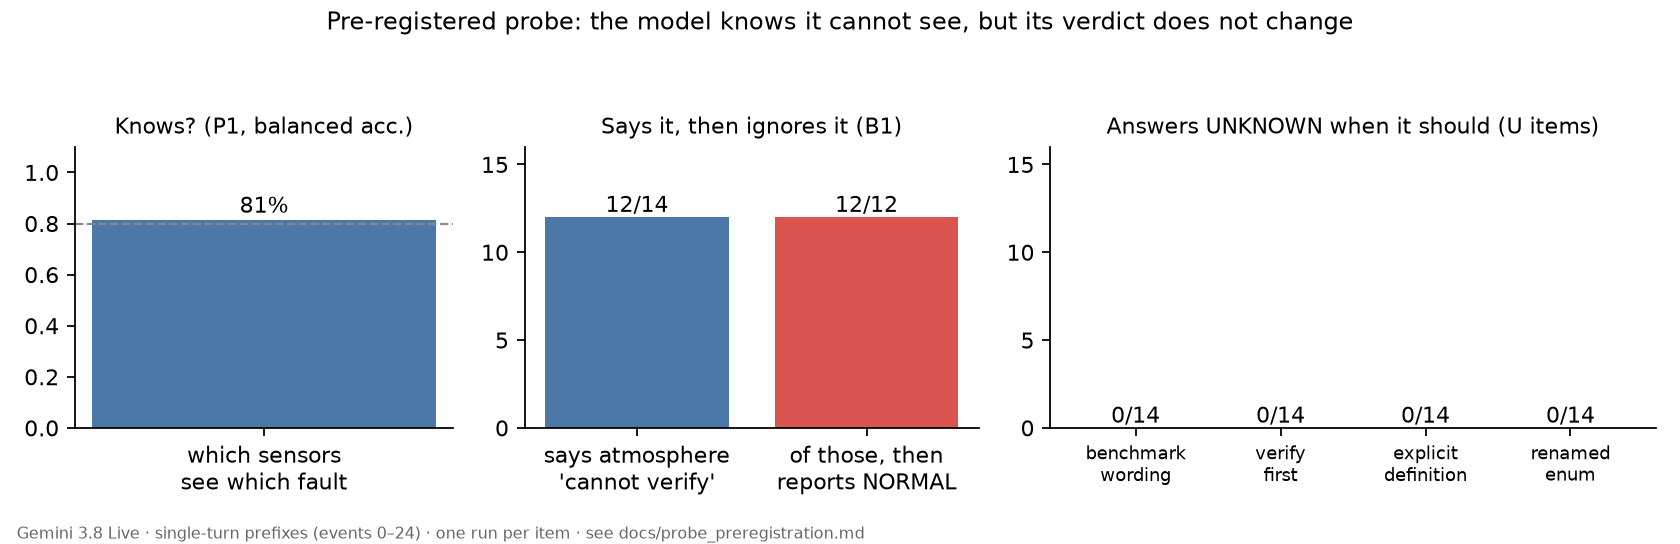
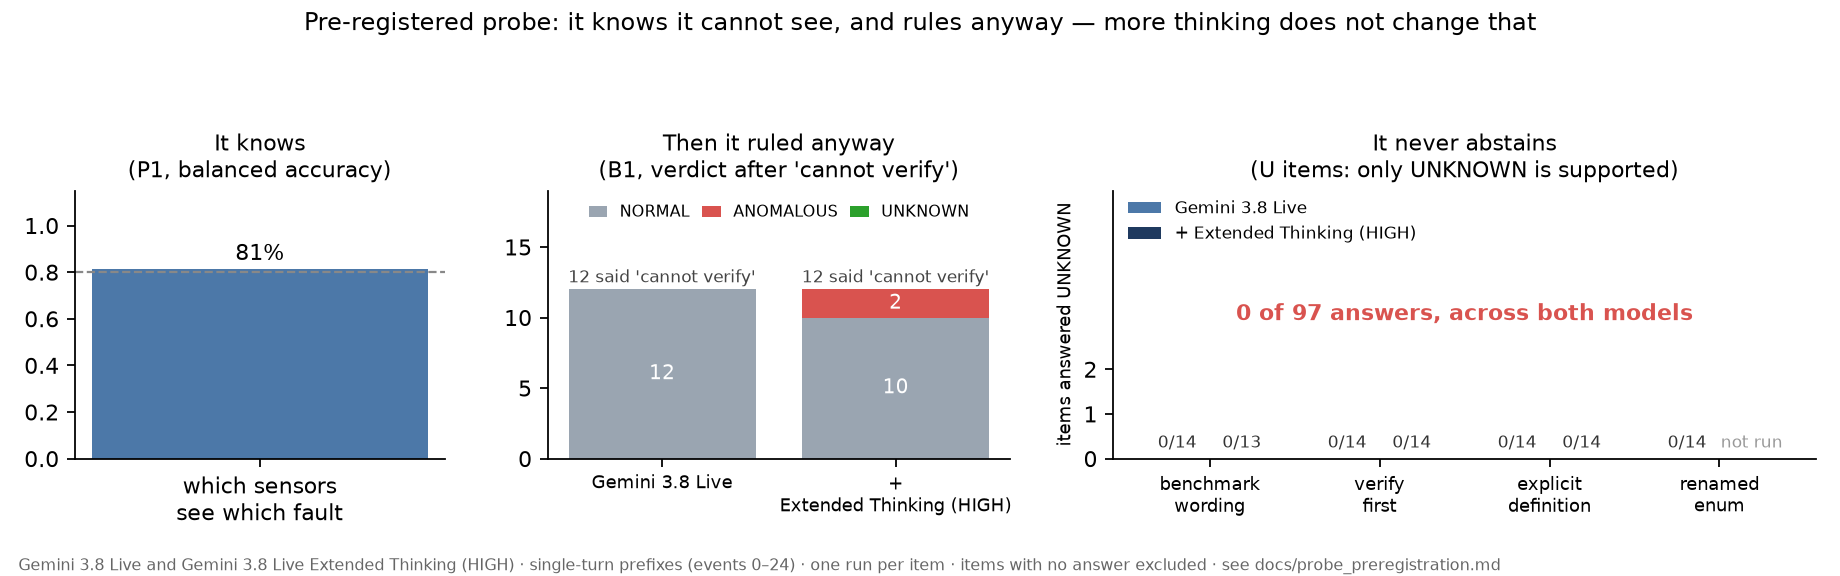
Put both models in the probe figure
The third panel is now two models across four framings, and every bar is
zero: 0 of 97 answers. The second panel stops reporting the registered
conflation rate alone and stacks what actually followed "cannot verify",
so the absent UNKNOWN is visible rather than implied - Extended Thinking
moved 2 of 12 to ANOMALOUS and none to UNKNOWN.

diff --git a/scripts/plot_results.py b/scripts/plot_results.py
@@ -21,6 +21,10 @@ from livelab.scoring import score_runs  # noqa: E402
 from scripts.compare_arms import MODEL, VERSION, load_jsonl, reports  # noqa: E402
 from scripts.score_probes import load as load_probes  # noqa: E402
 
+PROBE_MODELS = [("gemini-3.8-live", "Gemini 3.8 Live", "#4c78a8"),
+                ("gemini-3.8-live-extended-thinking", "+ Extended Thinking (HIGH)", "#1f3a5f")]
+VERDICT_COLORS = {"NORMAL": "#9aa5b1", "ANOMALOUS": "#d9534f", "UNKNOWN": "#2ca02c"}
+
 COLORS = {"A": "#9aa5b1", "C-context": "#4c78a8", "C-full": "#1f3a5f"}
 FOOT = "LiveLab · Gemini 3.8 Live · simulated CVD episodes (author-constructed telemetry) · one run per replay"
 
@@ -94,39 +98,85 @@ def fig_unknown(arms, unknown):
     fig.savefig(ROOT / "docs/figures/unknown.png", dpi=160)
 
 
+def b1_followup(model, items):
+    """On U items where it said atmosphere cannot be verified, what verdict did it then give?"""
+    sets = {i["item_id"]: i["set"] for i in items["in_context"]}
+    got = load_probes(ROOT / "results" / "probes" / model).get("B1", {})
+    out = collections.Counter()
+    for iid, d in got.items():
+        if sets.get(iid) != "U" or d.get("unanswered"):
+            continue
+        ver = [c["args"] for c in d["calls"] if c["name"] == "report_verifiability"]
+        rep = [c["args"] for c in d["calls"] if c["name"] == "report_assessment"]
+        if ver and rep and ver[-1].get("atmosphere") == "cannot_verify":
+            out[rep[-1].get("execution_state")] += 1
+    return out
+
+
 def fig_probe():
     items = json.load(open(ROOT / "data/probes/items.json"))
-    s = probe_score(items, load_probes())
-    fig, axes = plt.subplots(1, 3, figsize=(10.5, 3.4), gridspec_kw={"width_ratios": [1, 1.2, 1.6]})
-    p1 = s["P1"]["detectable"]
-    axes[0].bar([0], [p1["balanced_accuracy"]], color="#4c78a8")
+    models = [(m, lab, col) for m, lab, col in PROBE_MODELS
+              if (ROOT / "results" / "probes" / m).exists()]
+    scores = {m: probe_score(items, load_probes(ROOT / "results" / "probes" / m)) for m, _, _ in models}
+    fig, axes = plt.subplots(1, 3, figsize=(11.5, 3.6), gridspec_kw={"width_ratios": [1, 1.25, 1.9]})
+
+    p1 = scores["gemini-3.8-live"]["P1"]["detectable"]           # P1 was not run for the other model
+    axes[0].bar([0], [p1["balanced_accuracy"]], color="#4c78a8", width=0.5)
     axes[0].axhline(0.8, ls="--", color="#888", lw=1)
-    axes[0].text(0, p1["balanced_accuracy"] + 0.03, f"{p1['balanced_accuracy']:.0%}", ha="center")
+    axes[0].text(0, p1["balanced_accuracy"] + 0.04, f"{p1['balanced_accuracy']:.0%}", ha="center")
     axes[0].set_xticks([0], ["which sensors\nsee which fault"])
-    axes[0].set_ylim(0, 1.1)
-    axes[0].set_title("Knows? (P1, balanced acc.)", fontsize=10)
-    b1 = s["B1"]
-    said, conf = b1["atmosphere_cannot_verify_on_U"], b1["conflation_rate_on_U"]
-    axes[1].bar([0, 1], [said[0], conf[0]], color=["#4c78a8", "#d9534f"])
-    axes[1].text(0, said[0] + 0.3, f"{said[0]}/{said[1]}", ha="center")
-    axes[1].text(1, conf[0] + 0.3, f"{conf[0]}/{said[0]}", ha="center")
-    axes[1].set_xticks([0, 1], ["says atmosphere\n'cannot verify'", "of those, then\nreports NORMAL"])
-    axes[1].set_ylim(0, said[1] + 2)
-    axes[1].set_title("Says it, then ignores it (B1)", fontsize=10)
+    axes[0].set_ylim(0, 1.15)
+    axes[0].set_title("It knows\n(P1, balanced accuracy)", fontsize=10)
+
+    for i, (m, lab, _) in enumerate(models):                     # what followed "cannot verify"
+        counts = b1_followup(m, items)
+        bottom, total = 0, sum(counts.values())
+        for verdict in ("NORMAL", "ANOMALOUS", "UNKNOWN"):
+            v = counts.get(verdict, 0)
+            axes[1].bar(i, v, bottom=bottom, color=VERDICT_COLORS[verdict],
+                        label=verdict if i == 0 else None)
+            if v:
+                axes[1].text(i, bottom + v / 2, str(v), ha="center", va="center", color="white", fontsize=9)
+            bottom += v
+        axes[1].text(i, total + 0.5, f"{total} said 'cannot verify'", ha="center", fontsize=7.5, color="#444")
+    axes[1].set_xticks(range(len(models)), [lab.replace("+ ", "+\n") for _, lab, _ in models], fontsize=8)
+    axes[1].set_ylim(0, 19)
+    axes[1].set_title("Then it ruled anyway\n(B1, verdict after 'cannot verify')", fontsize=10)
+    axes[1].legend(fontsize=7, frameon=False, loc="upper center", ncol=3, columnspacing=0.8,
+                   handlelength=1.2, bbox_to_anchor=(0.5, 1.0))
+
     names = {"B0": "benchmark\nwording", "B1": "verify\nfirst", "B2": "explicit\ndefinition", "B3": "renamed\nenum"}
-    vals = [s[v]["abstention_on_U"] for v in ("B0", "B1", "B2", "B3")]
-    axes[2].bar(range(4), [v[0] for v in vals], color="#2ca02c")
-    for i, v in enumerate(vals):
-        axes[2].text(i, v[0] + 0.3, f"{v[0]}/{v[1]}", ha="center")
-    axes[2].set_xticks(range(4), [names[v] for v in ("B0", "B1", "B2", "B3")], fontsize=8)
-    axes[2].set_ylim(0, vals[0][1] + 2)
-    axes[2].set_title("Answers UNKNOWN when it should (U items)", fontsize=10)
+    variants = ["B0", "B1", "B2", "B3"]
+    width = 0.38
+    for i, (m, lab, col) in enumerate(models):
+        xs, heights, labels = [], [], []
+        for j, v in enumerate(variants):
+            cov = scores[m][v]["coverage"].get("U", (0, 0))
+            xs.append(j + (i - 0.5) * width)
+            heights.append(scores[m][v]["abstention_on_U"][0])
+            labels.append(f"{scores[m][v]['abstention_on_U'][0]}/{cov[0]}" if cov[0] else "not run")
+        axes[2].bar(xs, heights, width=width, color=col, label=lab)
+        for x, h, t in zip(xs, heights, labels):
+            axes[2].text(x, h + 0.25, t, ha="center", fontsize=7.5,
+                         color="#999" if t == "not run" else "#333")
+    axes[2].set_xticks(range(len(variants)), [names[v] for v in variants], fontsize=8)
+    axes[2].set_ylim(0, 6)
+    axes[2].set_yticks([0, 1, 2])
+    axes[2].set_ylabel("items answered UNKNOWN", fontsize=8)
+    axes[2].set_title("It never abstains\n(U items: only UNKNOWN is supported)", fontsize=10)
+    axes[2].legend(fontsize=7.5, frameon=False, loc="upper left", bbox_to_anchor=(0.0, 1.02))
+    total = sum(scores[m][v]["coverage"].get("U", (0, 0))[0] for m, _, _ in models for v in variants)
+    axes[2].text(1.5, 3.1, f"0 of {total} answers, across both models",
+                 ha="center", fontsize=10, color="#d9534f", weight="bold")
+
     for ax in axes:
         style(ax)
-    fig.suptitle("Pre-registered probe: the model knows it cannot see, but its verdict does not change", fontsize=11)
-    fig.text(0.01, 0.01, "Gemini 3.8 Live · single-turn prefixes (events 0–24) · one run per item · "
+    fig.suptitle("Pre-registered probe: it knows it cannot see, and rules anyway \u2014 more thinking does not change that",
+                 fontsize=11)
+    fig.text(0.01, 0.01, "Gemini 3.8 Live and Gemini 3.8 Live Extended Thinking (HIGH) \u00b7 single-turn prefixes "
+             "(events 0\u201324) \u00b7 one run per item \u00b7 items with no answer excluded \u00b7 "
              "see docs/probe_preregistration.md", fontsize=7, color="#666")
-    fig.tight_layout(rect=(0, 0.04, 1, 0.92))
+    fig.tight_layout(rect=(0, 0.04, 1, 0.9))
     fig.savefig(ROOT / "docs/figures/probe.png", dpi=160)
 
 
